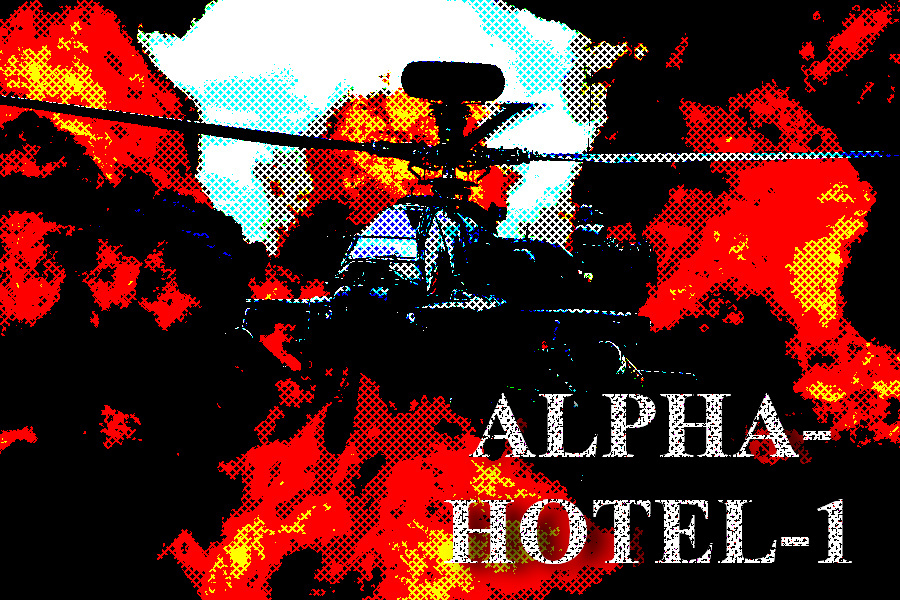
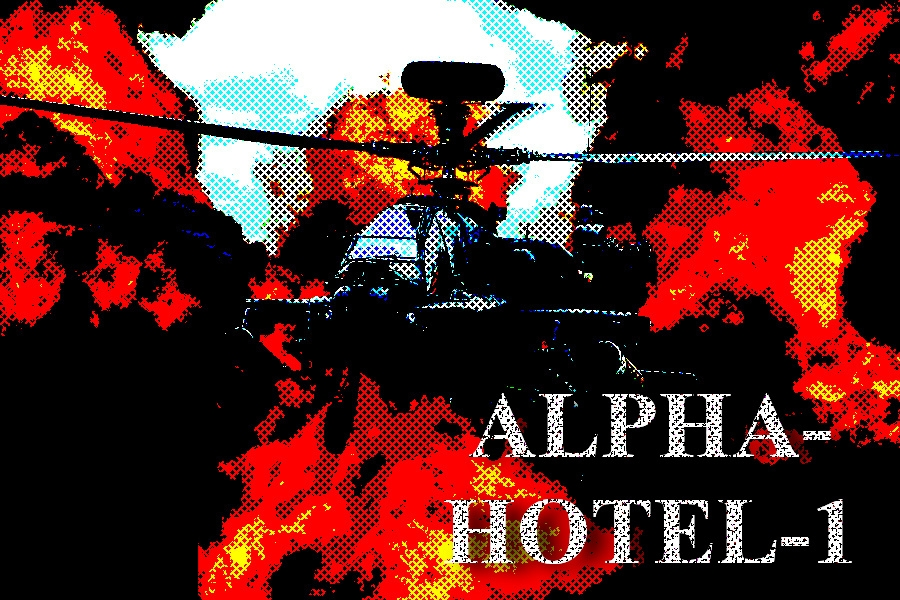
lv 5 complete and menu screens tidied up

diff --git a/main.py b/main.py
@@ -21,10 +21,10 @@ class Game:
             self.joystick = pygame.joystick.Joystick(0)
             self.joystick.init()
             self.controller_input_string = f"Controller: {self.joystick.get_name()}"
-            print(self.controller_input_string)
+            
         else:
             self.controller_input_string = "No Controller Available"
-            print(self.controller_input_string)
+            
 
         #   sounds
         self.main_theme = pygame.mixer.Sound('snd/main-theme.wav')
@@ -1411,7 +1411,7 @@ class Game:
                     self.main_theme.stop()
                     self.helicopter_sound.stop()
                     self.new_lv5()
-            if self.sams_killed_lv5 >= 8:
+            if self.sams_killed_lv5 >= 8 and self.tanks_killed_lv5 >= 12 and self.lv5_air_kills >= 6:
                 for sprite in self.all_sprites:
                     sprite.kill()
                 self.main_theme.stop()
@@ -1751,19 +1751,19 @@ class Game:
         self.level = 1
 
         play_button = Button(10, WIN_HEIGHT-60, 100, 50, WHITE, BLACK, 'Next', 32)
-        title = self.font.render('ALPHA-HOTEL-1', True, BLACK)
+        title = self.font.render('ALPHA-HOTEL-1', True, WHITE)
         title_rect = title.get_rect(center=(WIN_WIDTH/2 -10, 50))
-        brief_line_1 = self.font_mid.render('AH-1:  That\'s your callsign.  Welcome Lieutenant, here we have the briefing for our first mission;', True, BLACK)
+        brief_line_1 = self.font_mid.render('AH-1:  That\'s your callsign.  Welcome Lieutenant, here we have the briefing for our first mission;', True, WHITE)
         brief_line_1_rect = brief_line_1.get_rect(x=40, y=150)
-        brief_line_2 = self.font_mid.render('We have intelligence of enemy activity just SOUTH-EAST of our base,', True, BLACK)
+        brief_line_2 = self.font_mid.render('We have intelligence of enemy activity just SOUTH-EAST of our base,', True, WHITE)
         brief_line_2_rect = brief_line_2.get_rect(x=40, y=175)
-        brief_line_3 = self.font_mid.render('it seems they have taken over a RADAR installation.  We need to strike fast!', True, BLACK)
+        brief_line_3 = self.font_mid.render('it seems they have taken over a RADAR installation.  We need to strike fast!', True, WHITE)
         brief_line_3_rect = brief_line_3.get_rect(x=40, y=200)
-        brief_line_4 = self.font_mid.render('We need to neutralise the facility, you shoud only need your cannon for this mission.  Good luck Lieutenant!', True, BLACK)
+        brief_line_4 = self.font_mid.render('We need to neutralise the facility, you shoud only need your cannon for this mission.  Good luck Lieutenant!', True, WHITE)
         brief_line_4_rect = brief_line_4.get_rect(x=40, y=225)
-        brief_label_1 = self.font_mid.render('SPAAG - Self Propelled Anti-Aircraft Guns.', True, RED)
+        brief_label_1 = self.font_mid.render('SPAAG - Self Propelled Anti-Aircraft Guns.', True, ORANGE)
         brief_label_1_rect = brief_label_1.get_rect(x=170, y=310)
-        brief_label_2 = self.font_mid.render('Enemy Infantry - Mostly harmless.', True, RED)
+        brief_label_2 = self.font_mid.render('Enemy Infantry - Mostly harmless.', True, YELLOW)
         brief_label_2_rect = brief_label_2.get_rect(x=240, y=430)
         brief_label_3 = self.font_mid.render('MISSION OBJECTIVE - Destroy the installation.', True, RED)
         brief_label_3_rect = brief_label_3.get_rect(x=145, y=535)
@@ -1812,18 +1812,22 @@ class Game:
         self.level = 2
 
         play_button = Button(10, WIN_HEIGHT-60, 100, 50, WHITE, BLACK, 'Next', 32)
-        title = self.font.render('ALPHA-HOTEL-1', True, BLACK)
+        title = self.font.render('ALPHA-HOTEL-1', True, WHITE)
         title_rect = title.get_rect(center=(WIN_WIDTH/2 -10, 50))
         objective_image = pygame.image.load('img/mission_2_brief.png')
 
-        brief_line_1 = self.font_mid.render('Welcome back Lieutenant, here we have the briefing for our next mission;', True, BLACK)
+        brief_line_1 = self.font_mid.render('Welcome back Lieutenant, here we have the briefing for our next mission;', True, WHITE)
         brief_line_1_rect = brief_line_1.get_rect(x=40, y=150)
-        brief_line_2 = self.font_mid.render('The enemy has had word of our strike on the RADAR installation they occupied,  They have sent a', True, BLACK)
+        brief_line_2 = self.font_mid.render('The enemy has had word of our strike on the RADAR installation they occupied,  They have sent a', True, WHITE)
         brief_line_2_rect = brief_line_2.get_rect(x=40, y=175)
-        brief_line_3 = self.font_mid.render('group of tanks to wait nearby for a retaliatory strike.  We need you to neutralise the tanks.', True, BLACK)
+        brief_line_3 = self.font_mid.render('group of tanks to wait nearby for a retaliatory strike.  We need you to neutralise the tanks.', True, WHITE)
         brief_line_3_rect = brief_line_3.get_rect(x=40, y=200)
-        brief_line_4 = self.font_mid.render('Unguided rockets have been unlocked in the helipad menu.  Good luck Lieutenant!', True, BLACK)
+        brief_line_4 = self.font_mid.render('Unguided rockets have been unlocked in the helipad menu.  Good luck Lieutenant!', True, WHITE)
         brief_line_4_rect = brief_line_4.get_rect(x=40, y=225)
+        brief_label_1 = self.font_mid.render('Enemy Tanks - These have thick armour,', True, RED)
+        brief_label_1_rect = brief_label_1.get_rect(x=195, y=340)
+        brief_label_2 = self.font_mid.render('use ROCKETS for best effect.', True, RED)
+        brief_label_2_rect = brief_label_2.get_rect(x=195, y=360)
 
         last = pygame.time.get_ticks()
         self.main_theme.play(-1)
@@ -1857,6 +1861,8 @@ class Game:
             self.screen.blit(brief_line_2, brief_line_2_rect)
             self.screen.blit(brief_line_3, brief_line_3_rect)
             self.screen.blit(brief_line_4, brief_line_4_rect)
+            self.screen.blit(brief_label_1, brief_label_1_rect)
+            self.screen.blit(brief_label_2, brief_label_2_rect)
             self.screen.blit(play_button.image, play_button.rect)
             self.clock.tick(FPS)
             pygame.display.update()
@@ -1866,18 +1872,31 @@ class Game:
         self.level = 3
 
         play_button = Button(10, WIN_HEIGHT-60, 100, 50, WHITE, BLACK, 'Next', 32)
-        title = self.font.render('ALPHA-HOTEL-1', True, BLACK)
+        title = self.font.render('ALPHA-HOTEL-1', True, WHITE)
         title_rect = title.get_rect(center=(WIN_WIDTH/2 -10, 50))
         objective_image = pygame.image.load('img/mission_3_brief.png')
 
-        brief_line_1 = self.font_mid.render('Welcome back Lieutenant, here we have the briefing for our next mission;', True, BLACK)
+        brief_line_1 = self.font_mid.render('Welcome back Lieutenant, here we have the briefing for our next mission;', True, WHITE)
         brief_line_1_rect = brief_line_1.get_rect(x=40, y=150)
-        brief_line_2 = self.font_mid.render('Excellent work neutralising the tanks, we have intelligence of an enemy facility where they are', True, BLACK)
+        brief_line_2 = self.font_mid.render('Excellent work neutralising the tanks, we have intelligence of an enemy facility where they are', True, WHITE)
         brief_line_2_rect = brief_line_2.get_rect(x=40, y=175)
-        brief_line_3 = self.font_mid.render('bulding tanks, we want you to strike this facility.  There are enemy SAM trucks protecting the.', True, BLACK)
+        brief_line_3 = self.font_mid.render('bulding tanks, we want you to strike this facility.  There are enemy SAM trucks protecting the.', True, WHITE)
         brief_line_3_rect = brief_line_3.get_rect(x=40, y=200)
-        brief_line_4 = self.font_mid.render('facility so ATGMs have been unlocked in the helipad menu.  Good luck Lieutenant!', True, BLACK)
+        brief_line_4 = self.font_mid.render('facility so ATGMs have been unlocked in the helipad menu.  Good luck Lieutenant!', True, WHITE)
         brief_line_4_rect = brief_line_4.get_rect(x=40, y=225)
+        brief_label_1 = self.font_mid.render('This is your target lock indicator,', True, YELLOW)
+        brief_label_1_rect = brief_label_1.get_rect(x=178, y=300)
+        brief_label_2 = self.font_mid.render('guided weapons will use this for homing.', True, YELLOW)
+        brief_label_2_rect = brief_label_2.get_rect(x=178, y=320)
+        brief_label_3 = self.font_mid.render('Enemy SAM Trucks - Proceed with caution,', True, ORANGE)
+        brief_label_3_rect = brief_label_3.get_rect(x=158, y=370)
+        brief_label_4 = self.font_mid.render('guided weapons will thin these out.', True, ORANGE)
+        brief_label_4_rect = brief_label_4.get_rect(x=158, y=390)
+        brief_label_5 = self.font_mid.render('Enemy AAA Trucks.', True, BRIGHT_RED)
+        brief_label_5_rect = brief_label_5.get_rect(x=330, y=440)
+        brief_label_6 = self.font_mid.render('MISSION OBJECTIVE - DESTROY THE FACTORY.', True, RED)
+        brief_label_6_rect = brief_label_6.get_rect(x=100, y=480)
+
 
         last = pygame.time.get_ticks()
         self.main_theme.play(-1)
@@ -1911,6 +1930,12 @@ class Game:
             self.screen.blit(brief_line_2, brief_line_2_rect)
             self.screen.blit(brief_line_3, brief_line_3_rect)
             self.screen.blit(brief_line_4, brief_line_4_rect)
+            self.screen.blit(brief_label_1, brief_label_1_rect)
+            self.screen.blit(brief_label_2, brief_label_2_rect)
+            self.screen.blit(brief_label_3, brief_label_3_rect)
+            self.screen.blit(brief_label_4, brief_label_4_rect)
+            self.screen.blit(brief_label_5, brief_label_5_rect)
+            self.screen.blit(brief_label_6, brief_label_6_rect)
             self.screen.blit(play_button.image, play_button.rect)
             self.clock.tick(FPS)
             pygame.display.update()
@@ -1920,18 +1945,22 @@ class Game:
         self.level = 4
 
         play_button = Button(10, WIN_HEIGHT-60, 100, 50, WHITE, BLACK, 'Next', 32)
-        title = self.font.render('ALPHA-HOTEL-1', True, BLACK)
+        title = self.font.render('ALPHA-HOTEL-1', True, WHITE)
         title_rect = title.get_rect(center=(WIN_WIDTH/2 -10, 50))
         objective_image = pygame.image.load('img/mission_4_brief.png')
 
-        brief_line_1 = self.font_mid.render('Welcome back Lieutenant, here we have the briefing for our next mission;', True, BLACK)
+        brief_line_1 = self.font_mid.render('Welcome back Lieutenant, here we have the briefing for our next mission;', True, WHITE)
         brief_line_1_rect = brief_line_1.get_rect(x=40, y=150)
-        brief_line_2 = self.font_mid.render('The tank factory raid was a great success, well done Lieutenant!  However, intelligence reports', True, BLACK)
+        brief_line_2 = self.font_mid.render('The tank factory raid was a great success, well done Lieutenant!  However, intelligence reports', True, WHITE)
         brief_line_2_rect = brief_line_2.get_rect(x=40, y=175)
-        brief_line_3 = self.font_mid.render('enemy paratrooper transport approaching from the south.  We have no fast air at this base currently,', True, BLACK)
+        brief_line_3 = self.font_mid.render('enemy paratrooper transport approaching from the south.  We have no fast air at this base currently,', True, WHITE)
         brief_line_3_rect = brief_line_3.get_rect(x=40, y=200)
-        brief_line_4 = self.font_mid.render('so you\'re our only hope, AAMs have been unlocked in the weapons menu.  Good luck Lieutenant!', True, BLACK)
+        brief_line_4 = self.font_mid.render('so you\'re our only hope, AAMs have been unlocked in the weapons menu.  Good luck Lieutenant!', True, WHITE)
         brief_line_4_rect = brief_line_4.get_rect(x=40, y=225)
+        brief_label_1 = self.font_mid.render('MISSION OBJECTIVE - KILL THE TRANSPORTS', True, RED)
+        brief_label_1_rect = brief_label_1.get_rect(x=40, y=300)
+        brief_label_2 = self.font_mid.render('BEFORE THEY DROP THEIR PARATROOPERS.', True, RED)
+        brief_label_2_rect = brief_label_2.get_rect(x=40, y=320)
 
         last = pygame.time.get_ticks()
         self.main_theme.play(-1)
@@ -1965,6 +1994,8 @@ class Game:
             self.screen.blit(brief_line_2, brief_line_2_rect)
             self.screen.blit(brief_line_3, brief_line_3_rect)
             self.screen.blit(brief_line_4, brief_line_4_rect)
+            self.screen.blit(brief_label_1, brief_label_1_rect)
+            self.screen.blit(brief_label_2, brief_label_2_rect)
             self.screen.blit(play_button.image, play_button.rect)
             self.clock.tick(FPS)
             pygame.display.update()
@@ -1974,18 +2005,22 @@ class Game:
         self.level = 5
 
         play_button = Button(10, WIN_HEIGHT-60, 100, 50, WHITE, BLACK, 'Next', 32)
-        title = self.font.render('ALPHA-HOTEL-1', True, BLACK)
+        title = self.font.render('ALPHA-HOTEL-1', True, WHITE)
         title_rect = title.get_rect(center=(WIN_WIDTH/2 -10, 50))
         objective_image = pygame.image.load('img/mission_5_brief.png')
 
-        brief_line_1 = self.font_mid.render('Update: -  You have been moved aboard a frigate and are headed to the hazim straight, there will be', True, BLACK)
+        brief_line_1 = self.font_mid.render('Update: -  You have been moved aboard a frigate and are headed to the hazim straight, there will be', True, WHITE)
         brief_line_1_rect = brief_line_1.get_rect(x=40, y=150)
-        brief_line_2 = self.font_mid.render('a strike group sent ahead to take out some key assets on our arrival.  Your job is to hold down the', True, BLACK)
+        brief_line_2 = self.font_mid.render('a strike group sent ahead to take out some key assets on our arrival.  Your job is to hold down the', True, WHITE)
         brief_line_2_rect = brief_line_2.get_rect(x=40, y=175)
-        brief_line_3 = self.font_mid.render('LZ long enough for our defensive perimeter to be set.  We\'re not sure what the enemy might throw at', True, BLACK)
+        brief_line_3 = self.font_mid.render('LZ long enough for our defensive perimeter to be set.  We\'re not sure what the enemy might throw at', True, WHITE)
         brief_line_3_rect = brief_line_3.get_rect(x=40, y=200)
-        brief_line_4 = self.font_mid.render('you out there so keep your eyes open and come back to the frigate to rearm and repair when necessary.', True, BLACK)
+        brief_line_4 = self.font_mid.render('you out there so keep your eyes open and come back to the frigate to rearm and repair when necessary.', True, WHITE)
         brief_line_4_rect = brief_line_4.get_rect(x=40, y=225)
+        brief_label_1 = self.font_mid.render('      ----    NO INTEL    ----    ', True, RED)
+        brief_label_1_rect = brief_label_1.get_rect(x=40, y=300)
+        brief_label_2 = self.font_mid.render('BE PREPARED FOR ANYTHING LIEUTENENT.', True, RED)
+        brief_label_2_rect = brief_label_2.get_rect(x=40, y=325)
 
         last = pygame.time.get_ticks()
         self.main_theme.play(-1)
@@ -2019,6 +2054,8 @@ class Game:
             self.screen.blit(brief_line_2, brief_line_2_rect)
             self.screen.blit(brief_line_3, brief_line_3_rect)
             self.screen.blit(brief_line_4, brief_line_4_rect)
+            self.screen.blit(brief_label_1, brief_label_1_rect)
+            self.screen.blit(brief_label_2, brief_label_2_rect)
             self.screen.blit(play_button.image, play_button.rect)
             self.clock.tick(FPS)
             pygame.display.update()
@@ -2026,35 +2063,35 @@ class Game:
     def weapon_menu(self):
         weapon_menu = True
 
-        title = self.font.render('Weapons Menu - Choose your weapons.', True, BLACK)
+        title = self.font.render('Weapons Menu - Choose your weapons.', True, WHITE)
         title_rect = title.get_rect(x=200, y=20)
 
-        rockets_text = self.font_mid.render('Unguided Rocket Pods:  Unguided rockets are perfect for destroying', True, BLACK)
+        rockets_text = self.font_mid.render('Unguided Rocket Pods:  Unguided rockets are perfect for destroying', True, WHITE)
         rockets_text_rect = rockets_text.get_rect(x=200, y=111)
-        rockets_text_2 = self.font_mid.render('buildings and convoys due to their quantity. - x 30  - Press 1 to arm.', True, BLACK)
+        rockets_text_2 = self.font_mid.render('buildings and convoys due to their quantity. - x 30  - Press 1 to arm.', True, WHITE)
         rockets_text_2_rect = rockets_text_2.get_rect(x=200, y=131)
         rockets_armed = self.font_mid.render('', True, RED)
         rockets_armed_rect = rockets_armed.get_rect(x=800, y=121)
         
 
-        atgm_text = self.font_mid.render('Anti Tank Guided Missiles (ATGM):  Missiles with infra-red tracking', True, BLACK)
+        atgm_text = self.font_mid.render('Anti Tank Guided Missiles (ATGM):  Missiles with infra-red tracking', True, WHITE)
         atgm_text_rect = atgm_text.get_rect(x=200, y=236)
-        atgm_text_2 = self.font_mid.render('and targeting, perfect for enemy ground vehicles. - x 4  - Press 2 to arm.', True, BLACK)
+        atgm_text_2 = self.font_mid.render('and targeting, perfect for enemy ground vehicles. - x 4  - Press 2 to arm.', True, WHITE)
         atgm_text_2_rect = atgm_text_2.get_rect(x=200, y=256)
         atgm_armed = self.font_mid.render('', True, RED)
         atgm_armed_rect = atgm_armed.get_rect(x=800, y=246)
         
 
-        aam_text = self.font_mid.render('Air to Air Missiles (AAM):  Highly manouverable missiles with infra-red', True, BLACK)
+        aam_text = self.font_mid.render('Air to Air Missiles (AAM):  Highly manouverable missiles with infra-red', True, WHITE)
         aam_text_rect = aam_text.get_rect(x=200, y=361)
-        aam_text_2 = self.font_mid.render('tracking and targeting, perfect for enemy aircraft. - x 4  - Press 3 to arm.', True, BLACK)
+        aam_text_2 = self.font_mid.render('tracking and targeting, perfect for enemy aircraft. - x 4  - Press 3 to arm.', True, WHITE)
         aam_text_2_rect = aam_text_2.get_rect(x=200, y=381)
         aam_armed = self.font_mid.render('', True, RED)
         aam_armed_rect = aam_armed.get_rect(x=800, y=371)
         
 
 
-        exit_txt = self.font.render('Press B to exit.', True, BLACK)
+        exit_txt = self.font.render('Press B to exit.', True, WHITE)
         exit_txt_rect = exit_txt.get_rect(x=WIN_WIDTH-200, y=WIN_HEIGHT-50)
 
         
@@ -2151,25 +2188,25 @@ class Game:
     def controls_menu(self):
         controls_menu = True
 
-        title = self.font.render('Controls.', True, BLACK)
+        title = self.font.render('Controls.', True, WHITE)
         title_rect = title.get_rect(center=(WIN_WIDTH/2, 50))
 
-        rockets_text = self.font.render('Movement:-', True, BLACK)
+        rockets_text = self.font.render('Movement:-', True, WHITE)
         rockets_text_rect = rockets_text.get_rect(x=50, y=100)
-        rockets_text_2 = self.font_mid.render('Use W,A,S,D, \'left stick\' or arrow keys to move.', True, BLACK)
+        rockets_text_2 = self.font_mid.render('Use W,A,S,D, \'left stick\' or arrow keys to move.', True, WHITE)
         rockets_text_2_rect = rockets_text_2.get_rect(x=50, y=131)
 
-        atgm_text = self.font.render('Flares:-', True, BLACK)
+        atgm_text = self.font.render('Flares:-', True, WHITE)
         atgm_text_rect = atgm_text.get_rect(x=50, y=225)
-        atgm_text_2 = self.font_mid.render('controller \'Y\' of key \'F\' for flares, to counter SAM threats.', True, BLACK)
+        atgm_text_2 = self.font_mid.render('controller \'Y\' of key \'F\' for flares, to counter SAM threats.', True, WHITE)
         atgm_text_2_rect = atgm_text_2.get_rect(x=50, y=256)
 
-        aam_text = self.font.render('Weapons:-', True, BLACK)
+        aam_text = self.font.render('Weapons:-', True, WHITE)
         aam_text_rect = aam_text.get_rect(x=50, y=350)
-        aam_text_2 = self.font_mid.render('\'SPACE\' or controller \'A\' - Cannon, \'H\' or controller \'B\' - Unguided Rockets, \'G\' or controller \'X\' - Guided Missile', True, BLACK)
+        aam_text_2 = self.font_mid.render('\'SPACE\' or controller \'A\' - Cannon, \'H\' or controller \'B\' - Unguided Rockets, \'G\' or controller \'X\' - Guided Missile', True, WHITE)
         aam_text_2_rect = aam_text_2.get_rect(x=50, y=381)
 
-        exit_txt = self.font_mid.render('Press B to exit.', True, BLACK)
+        exit_txt = self.font.render('Press B to exit.', True, WHITE)
         exit_txt_rect = exit_txt.get_rect(x=WIN_WIDTH-200, y=WIN_HEIGHT-50)
 
         while controls_menu:

diff --git a/config.py b/config.py
@@ -16,7 +16,10 @@ TILESIZE = 25
 
 WHITE = (255, 255, 255)
 BLACK = (0, 0, 0)
-RED = (180, 0, 0)
+RED = (160, 0, 0)
+BRIGHT_RED = (255, 0, 0)
+YELLOW = (255, 255, 0)
+ORANGE = (255, 160, 0)
 
 REFERENCE_SPRITE =  ['1']
 
@@ -984,7 +987,7 @@ vehicle_map_lv5 = [
     '.....................D............................................................................',
     'l.................................................................................................',
     '.....................D............................................................................',
-    '.................................................................................................i',
+    '..................................................................................................',
     '.....................D............................................................................',
     '..................................................................................................',
     '.....................D............................................................................',
